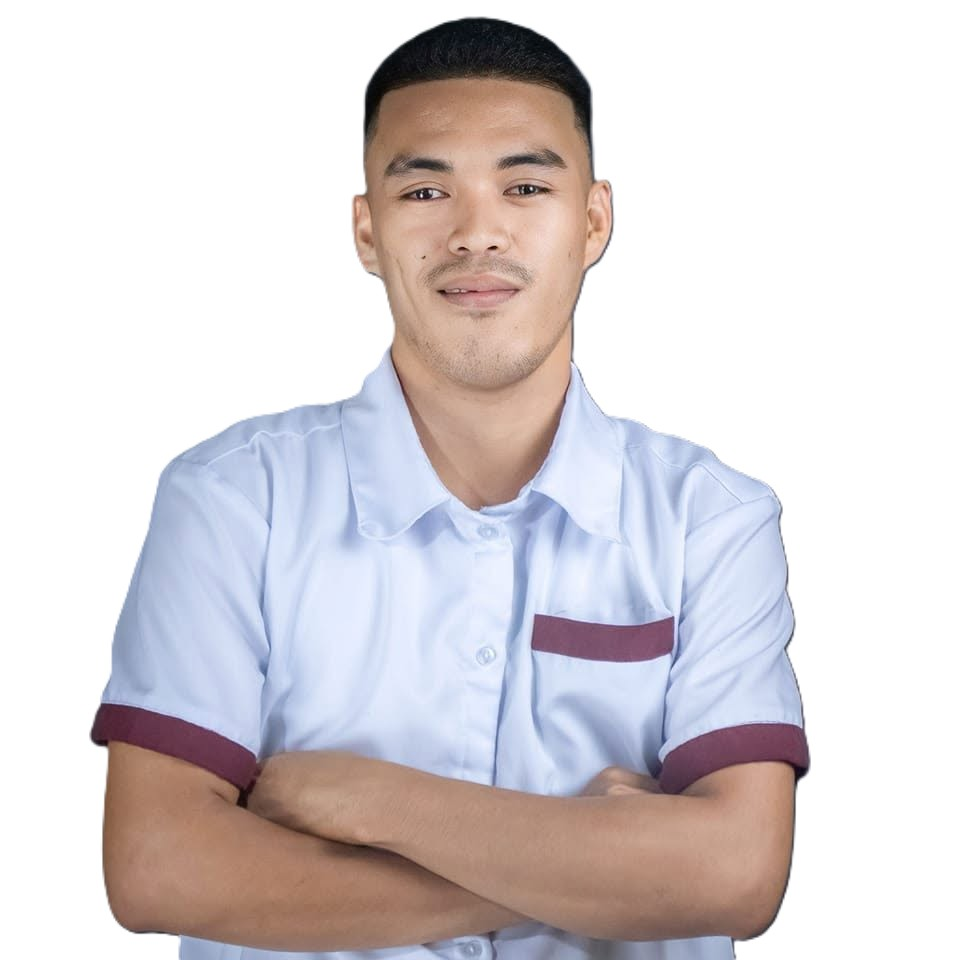
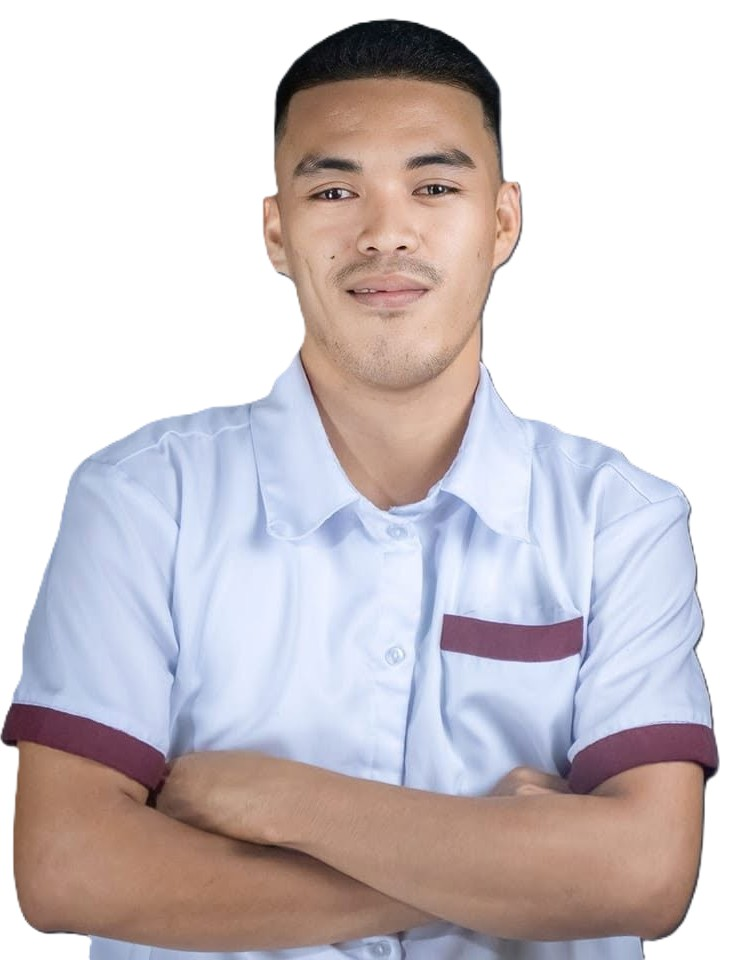
updates the image

diff --git a/index.html b/index.html
@@ -128,7 +128,7 @@
                 <div class="glow-circle"></div>
 
                 <div class="hero-image">
-                    <img src="5.jpg"
+                    <img src="profiledp.jpg"
                         alt="Portrait of Wendell Jules Capatoy">
                 </div>
 
